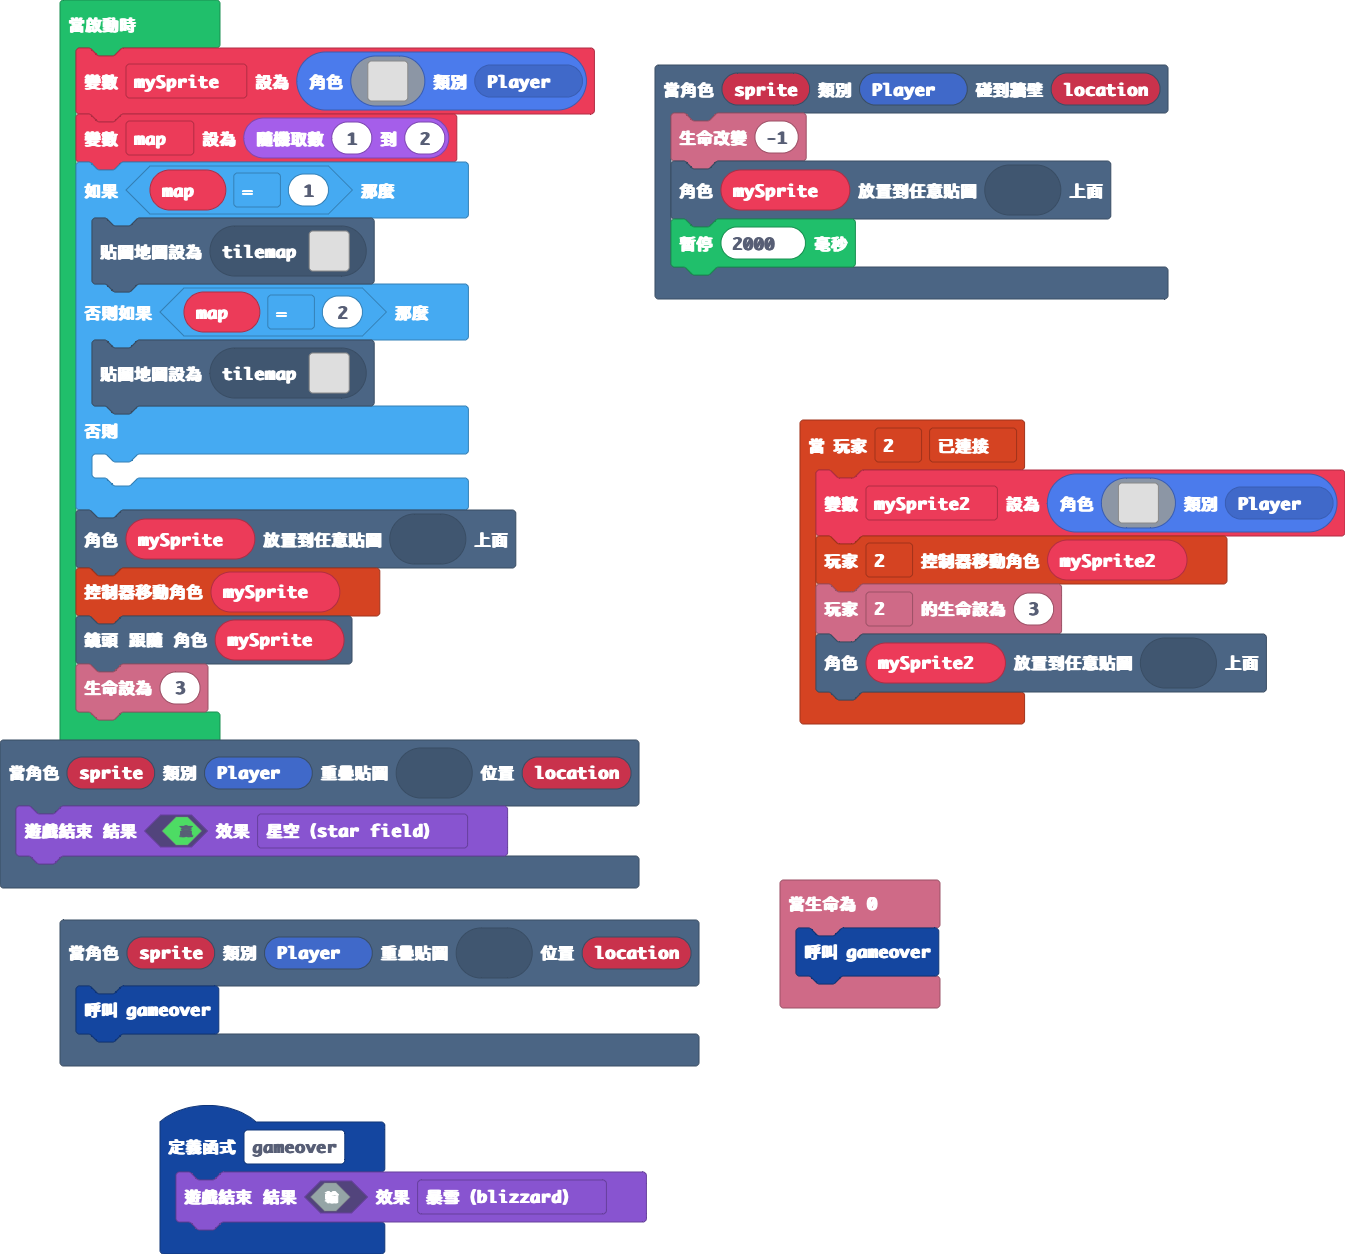
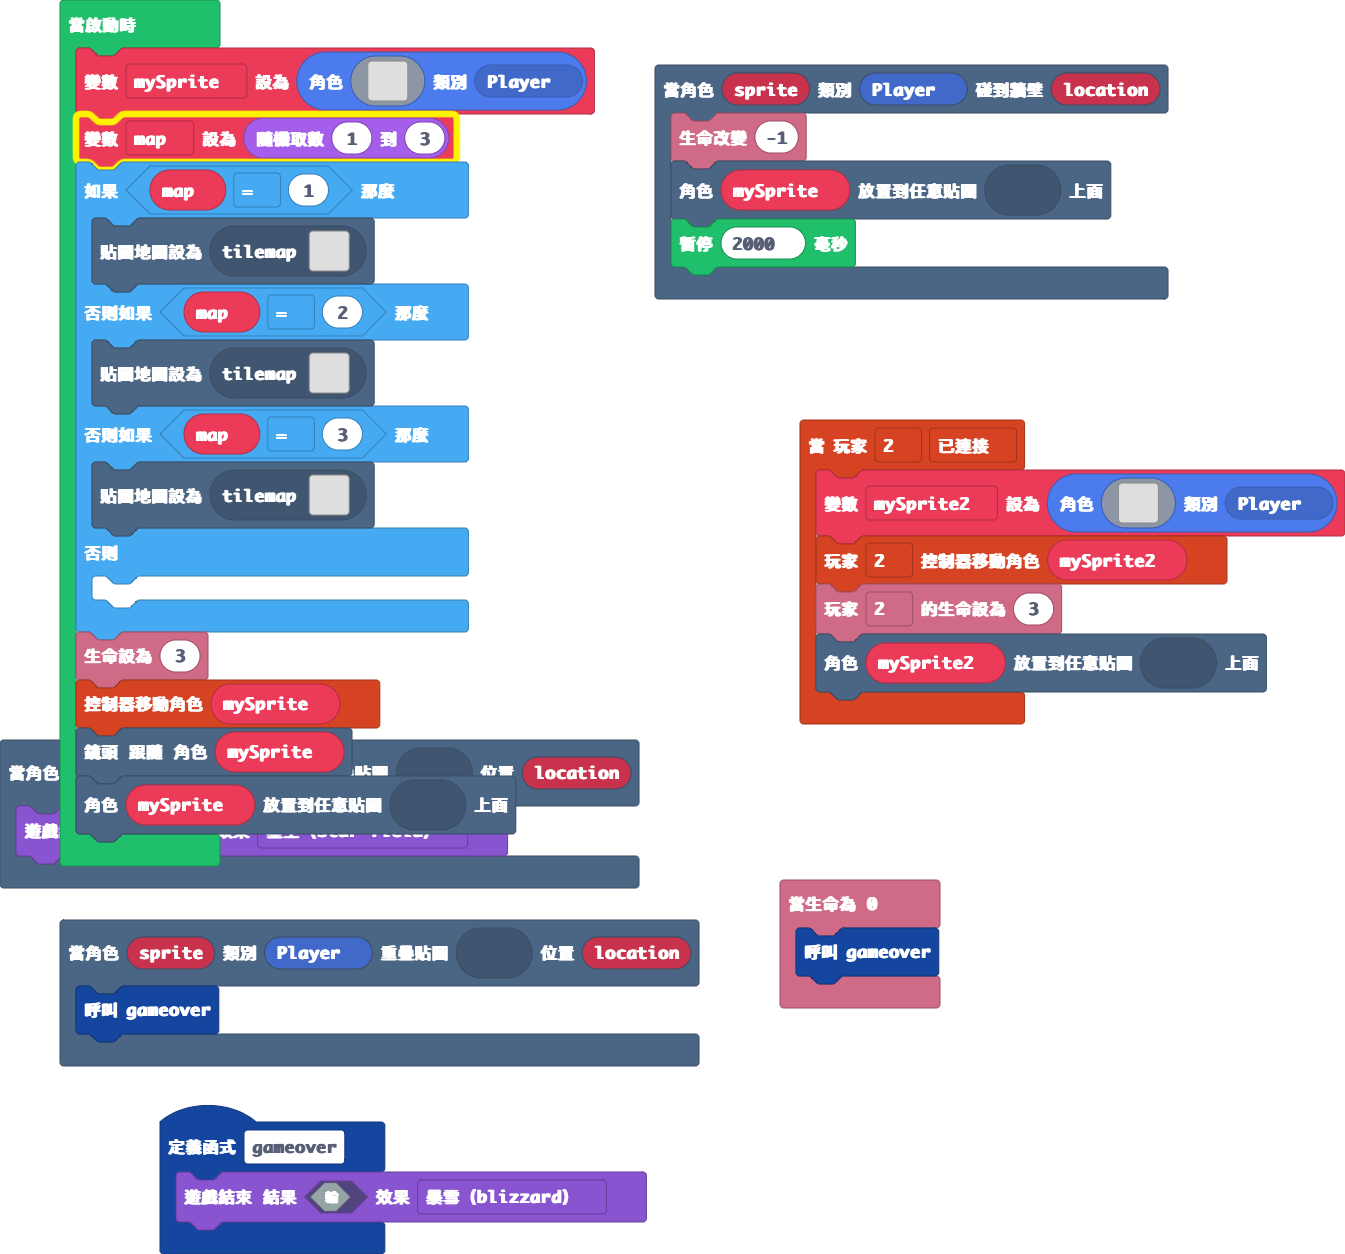
add a new map

Changed region(s): [[0.0312, 0.311, 0.4059, 0.7153], [0.0312, 0.0622, 0.3435, 0.1555]]

diff --git a/tilemap.g.ts b/tilemap.g.ts
@@ -12,6 +12,8 @@ namespace myTiles {
     export const tile4 = image.ofBuffer(hex``);
     //% fixedInstance jres blockIdentity=images._tile
     export const tile5 = image.ofBuffer(hex``);
+    //% fixedInstance jres blockIdentity=images._tile
+    export const tile6 = image.ofBuffer(hex``);
 
     helpers._registerFactory("tilemap", function(name: string) {
         switch(helpers.stringTrim(name)) {
@@ -256,6 +258,73 @@ namespace myTiles {
 2..............................2
 22222222222222222222222222222222
 `, [myTiles.transparency16,sprites.builtin.forestTiles0,myTiles.tile1,myTiles.tile3,myTiles.tile4,myTiles.tile5], TileScale.Sixteen);
+            case "層級11":
+            case "層級11":return tiles.createTilemap(hex`4000400005050505050505050505050505050505050505050505050505050505050505050505050505050505050505050505050505050505050505050505050505050505050202020202020202020202020202020202020202020202020202020202020202020202020204020202020202020202020202020202020202020202020202050502020202020202020202020202020202020202020202020202020202020202020202020202040202020202020202020202020202020202020202020202020505020202020202020202020202020202020202020202020202020202020202020202020202020402020202020202020202020202020202020202020202020205050505050505050505050505050505050202020205050505050505050505050505050505050505050502020202020202020202020202020202020202020202050502020202020202020202020202020502020202050202020202020202020202020202020202020202020202020202020202020202020202020202020202020505020202020202020202020202020205020202020502020202020202020202020202020202020202020202020202020202020202020202020202020202020205050202020202020202020202020202050202020205020202020202020202020202020202020202020202020202020202020202020202020202020202020202050502020202020202020202020202020502020202050202020202020202020202020202020202020202020202020202020202020202020202020202020202020505020202020202020202020202020205020202020502020202020202020202020202020202020202020202020202020202020202020202020202020202020205050202020202020202020202020202050202020205020202020202020202020202020202020202020202020202020505050202020202020202020202020202050502020202020202020202020202020502020202050202020202020202020505050505050505050505050505050505020205050505050505050505020202020505020202020202020202020202020205020202020505050505050505050502020202020202020202020202020202020202020202020202020202050202020205050202020202020202020202020202020101010102020202020202020202020202020202020202020202020202020202020202020202020202020502020202050502020202020202020202020202020201010101020202020202020202020202020202020202020202020202020202020202020202020202020205020202020505020202020202020202020202020202010101010202020202020202020202020202020202020202020202020202020202020202020202020202050202020205050202020202020202020202020202020101010102020202020202020202020202020202020202020202020202020202020202020202050505050502020202050505050505050505050505050505050502020202050505050505050505050505050505050505050505050505050505050505050505050502020205050202020505020202020202020202020202020202050202020502020202020202020202020202020202020202020202020202020202020202020202020202020505050205050202020202020202020202020202020502020205020202020202020202020202020202020202020202020202020202020202020202020202020202020202050502020202020202020202020202020205020202050202020202020202020202020202020202020202020202020202020202020202020202020202020202020505020202020202020202020202020202020502020505020202020202020202020202020202020202020202020202020202020202020202020202020202020205050202020202020202020202020202020205020202050202020202020202020202020202020202020202020202020202020202020202020202020202020202050502020202020202020202020202020202050202020502020202020202020202020202020202020202020202020202020202020202020202020202020202020505020202020202020202020202020202020502020205050505050505050505050505050505050505050505050505050202020202020202020202020202020205050202020202020202020202020202020205020202050202020202020202020202020202020202020202020202020502020202020202020202020202020202050502020202020202020202020202020202050202020202050202020202020202020202020202020202020202020205020202020202020202020202020202020505020202020202020202020202020202020502020202050502020202020202020202020202020202020202020202050202020202020202020202020202020205050202020202020202020202020202020205020202020505020202020202020202020202020202020202020202020502020202020202020202020202020202050502020202020202020202020202020202050202020202050202020202020202020202020202020202020202020205020202020202020202020202020202020505020202020202020202020202020202020502020202020505020202020202020202020202020202020202020202050202020202020202020202020202020205050202020202020202020202020202020505020202020202050505050505050505050505050502020202020202020502020202020202020202020202020202050502020202020202020202020202020205020202020202020202020202020202020202020202050505050502020205020202020202020202020202020202020505020202020202020202020202020202050202020202020202020202020202020202020202020202020205050505050502020202020202050505050505050505050202020202020202020202020202020502020202020202020202020202020202020202020202020202020202050505050505050505050502020302020205050502020202020202020202020202020205020202020202020202020202020202020202020202020202020202020202020202020202020202020203020202020505020202020202020202020202020202050502020202020202020202020202020202020202020202020202020202020202020202020202020202030202020205050202020202020202020202020202020205020202020202020202020202020202020202020202020202020202020202020202020202020202020302020202050502020202020202020202020202020202050202020202020202020202020202020202020202020202020202020202020202020202020202020203020202020505020202020202020202020202020202020502020202020202020202020202020202020202020202020202020202020202020202020202020202030202020205050202020202020202020202020202020205020202020202020202020202020202020202020202020202020202020202020202020202020202020303020202050502020202020202020202020202020202050202020202020202020202020202020202020202020202020202020202020202020202020202020202030202020505020202020202020202020202020202020502020202020202020202020202020202020202020202020202020202020202020202020202020202020302020205050202020202020202020202020202020205020202020202020202020202020202020202020202020202020202020202020202020202020202020203020202050502020202020202020202020202020202050502020202020202020202020202020202020202020202020202020202020202020202020202020202030202020505020202020202020202020202020202020205020202020202020202020202020202020202020202020202020202020202020202020202020202020302020205050202020202020202020202020202020202050202020202020202020202020202020202020202020202020202020202020202020202020202020203020202050502020202020202020202020202020202020502020202020202020202020202020202020202020202020202020202020202020202020202020202030202020505020202020202020202020202020202020205020202020202020202020202020202020202020202020202020202020202020202020202020202020302020205050202020202020202020202020202020202020502020202020202020202020202020202020202020202020202020202020202020202020202020203020202050502020202020202020202020202020202020205020202020202020202020202020505050505050505050505050505050505050505050505020202030202020505020202020202020202020202020202020202050202020202020205050505050502020202020202020202020202020202020202020202020505050502020205050202020202020202020202020202020202020505050505050505020202020202020202020202020202020202020202020202020202020202020202020202050502020202020202020202020202020202020202020202020202020202020202020202020202020202020202020202020202020202020202020202020202020505020202020202020202020202020202020202020202020202020202020202020202020202020202020202020202020202020202020202020202020202020205050202020202020202020202020202020202020202020202020202020202020202020202020202020202020202020202020202020202020202020202020202050502020202020202020202020202020202020202020202020202020202020202020202020202020202020202020202020202020202020202020202020202020505020202020202020202020202020202020202020202020202020202020202020202020202020202020202020202020202020202020202020202020202020205050202020202020202020202020202020202020202020202020202020202020202020202020202020202020202020202020202020202020202020202020202050502020202020202020202020202020202020202020202020202020202020202020202020202020202020202020202020202020202020202020202020202020505020202020202020202020202020202020202020202020202020202020202020202020202020202020202020202020202020202020202020202020202020205050202020202020202020202020202020202020202020202020202020202020202020202020202020202020202020202020202020202020202020202020202050502020202020202020202020202020202020202020202020202020202020202020202020202020202020202020202020202020202020202020202020202020505050505050505050505050505050505050505050505050505050505050505050505050505050505050505050505050505050505050505050505050505050505`, img`
+2222222222222222222222222222222222222222222222222222222222222222
+2..............................................................2
+2..............................................................2
+2..............................................................2
+2222222222222222....222222222222222222222......................2
+2..............2....2..........................................2
+2..............2....2..........................................2
+2..............2....2..........................................2
+2..............2....2..........................................2
+2..............2....2..........................................2
+2..............2....2.........................222..............2
+2..............2....2.........22222222222222222..2222222222....2
+2..............2....2222222222............................2....2
+2.........................................................2....2
+2.........................................................2....2
+2.........................................................2....2
+2.....................................................22222....2
+2222222222222222....22222222222222222222222222222222222...22...2
+2...............2...2......................................222.2
+2...............2...2..........................................2
+2...............2...2..........................................2
+2................2..22.........................................2
+2................2...2.........................................2
+2................2...2.........................................2
+2................2...22222222222222222222222222................2
+2................2...2........................2................2
+2................2.....2......................2................2
+2................2....22......................2................2
+2................2....22......................2................2
+2................2.....2......................2................2
+2................2.....22.....................2................2
+2...............22......22222222222222........2................2
+2...............2.....................22222...2................2
+2...............2.........................222222.......222222222
+2...............2............................22222222222......22
+2...............2..............................................2
+2...............22.............................................2
+2................2.............................................2
+2................2.............................................2
+2................2.............................................2
+2................2.............................................2
+2................2.............................................2
+2................2.............................................2
+2................2.............................................2
+2................22............................................2
+2.................2............................................2
+2.................2............................................2
+2.................2............................................2
+2.................2............................................2
+2..................2...........................................2
+2..................2.............22222222222222222222222.......2
+2..................2.......222222.......................2222...2
+2..................22222222....................................2
+2..............................................................2
+2..............................................................2
+2..............................................................2
+2..............................................................2
+2..............................................................2
+2..............................................................2
+2..............................................................2
+2..............................................................2
+2..............................................................2
+2..............................................................2
+2222222222222222222222222222222222222222222222222222222222222222
+`, [myTiles.transparency16,myTiles.tile1,myTiles.tile3,myTiles.tile4,myTiles.tile5,myTiles.tile6], TileScale.Sixteen);
         }
         return null;
     })
@@ -273,6 +342,8 @@ namespace myTiles {
             case "tile4":return tile4;
             case "我的貼圖3":
             case "tile5":return tile5;
+            case "我的貼圖4":
+            case "tile6":return tile6;
         }
         return null;
     })

diff --git a/main.ts b/main.ts
@@ -58,15 +58,17 @@ mySprite = sprites.create(img`
     . . c b d d d d d 5 5 5 b b . . 
     . . . c c c c c c c c b b . . . 
     `, SpriteKind.Player)
-let map = randint(1, 2)
+let map = randint(1, 3)
 if (map == 1) {
     tiles.setCurrentTilemap(tilemap`層級4`)
 } else if (map == 2) {
     tiles.setCurrentTilemap(tilemap`層級8`)
+} else if (map == 3) {
+    tiles.setCurrentTilemap(tilemap`層級11`)
 } else {
 	
 }
-tiles.placeOnRandomTile(mySprite, assets.tile`我的貼圖`)
+info.setLife(3)
 controller.moveSprite(mySprite)
 scene.cameraFollowSprite(mySprite)
-info.setLife(3)
+tiles.placeOnRandomTile(mySprite, assets.tile`我的貼圖`)
